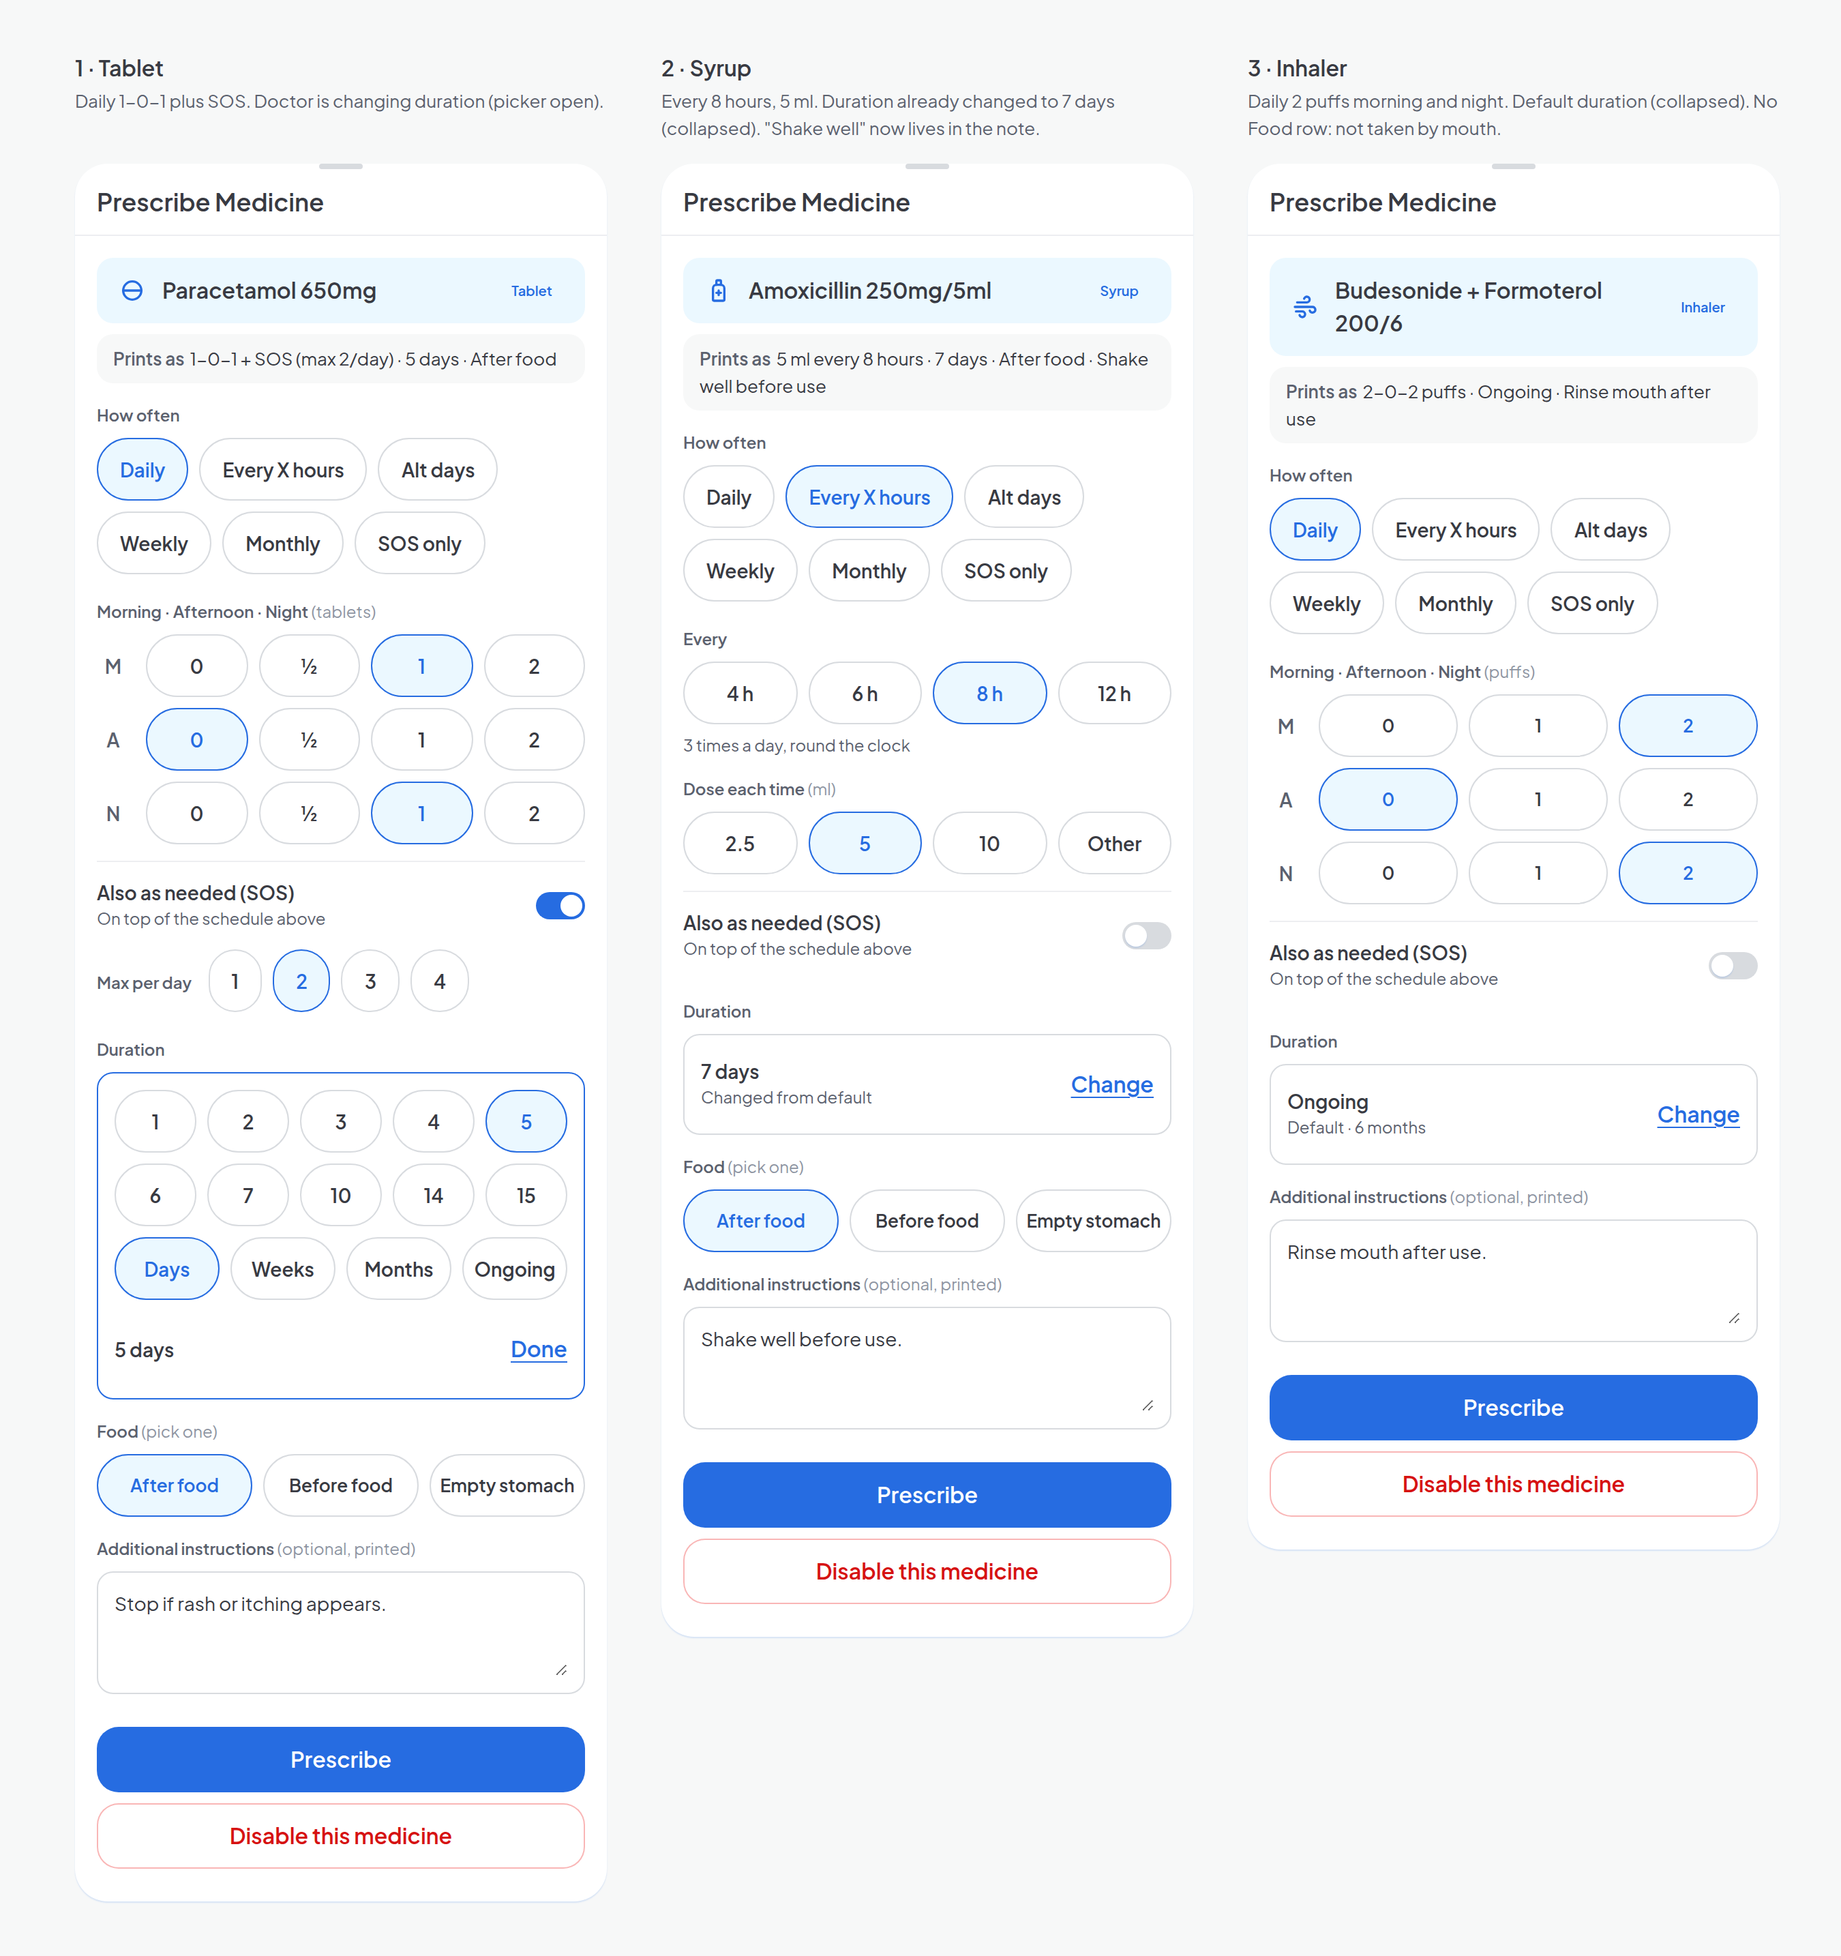
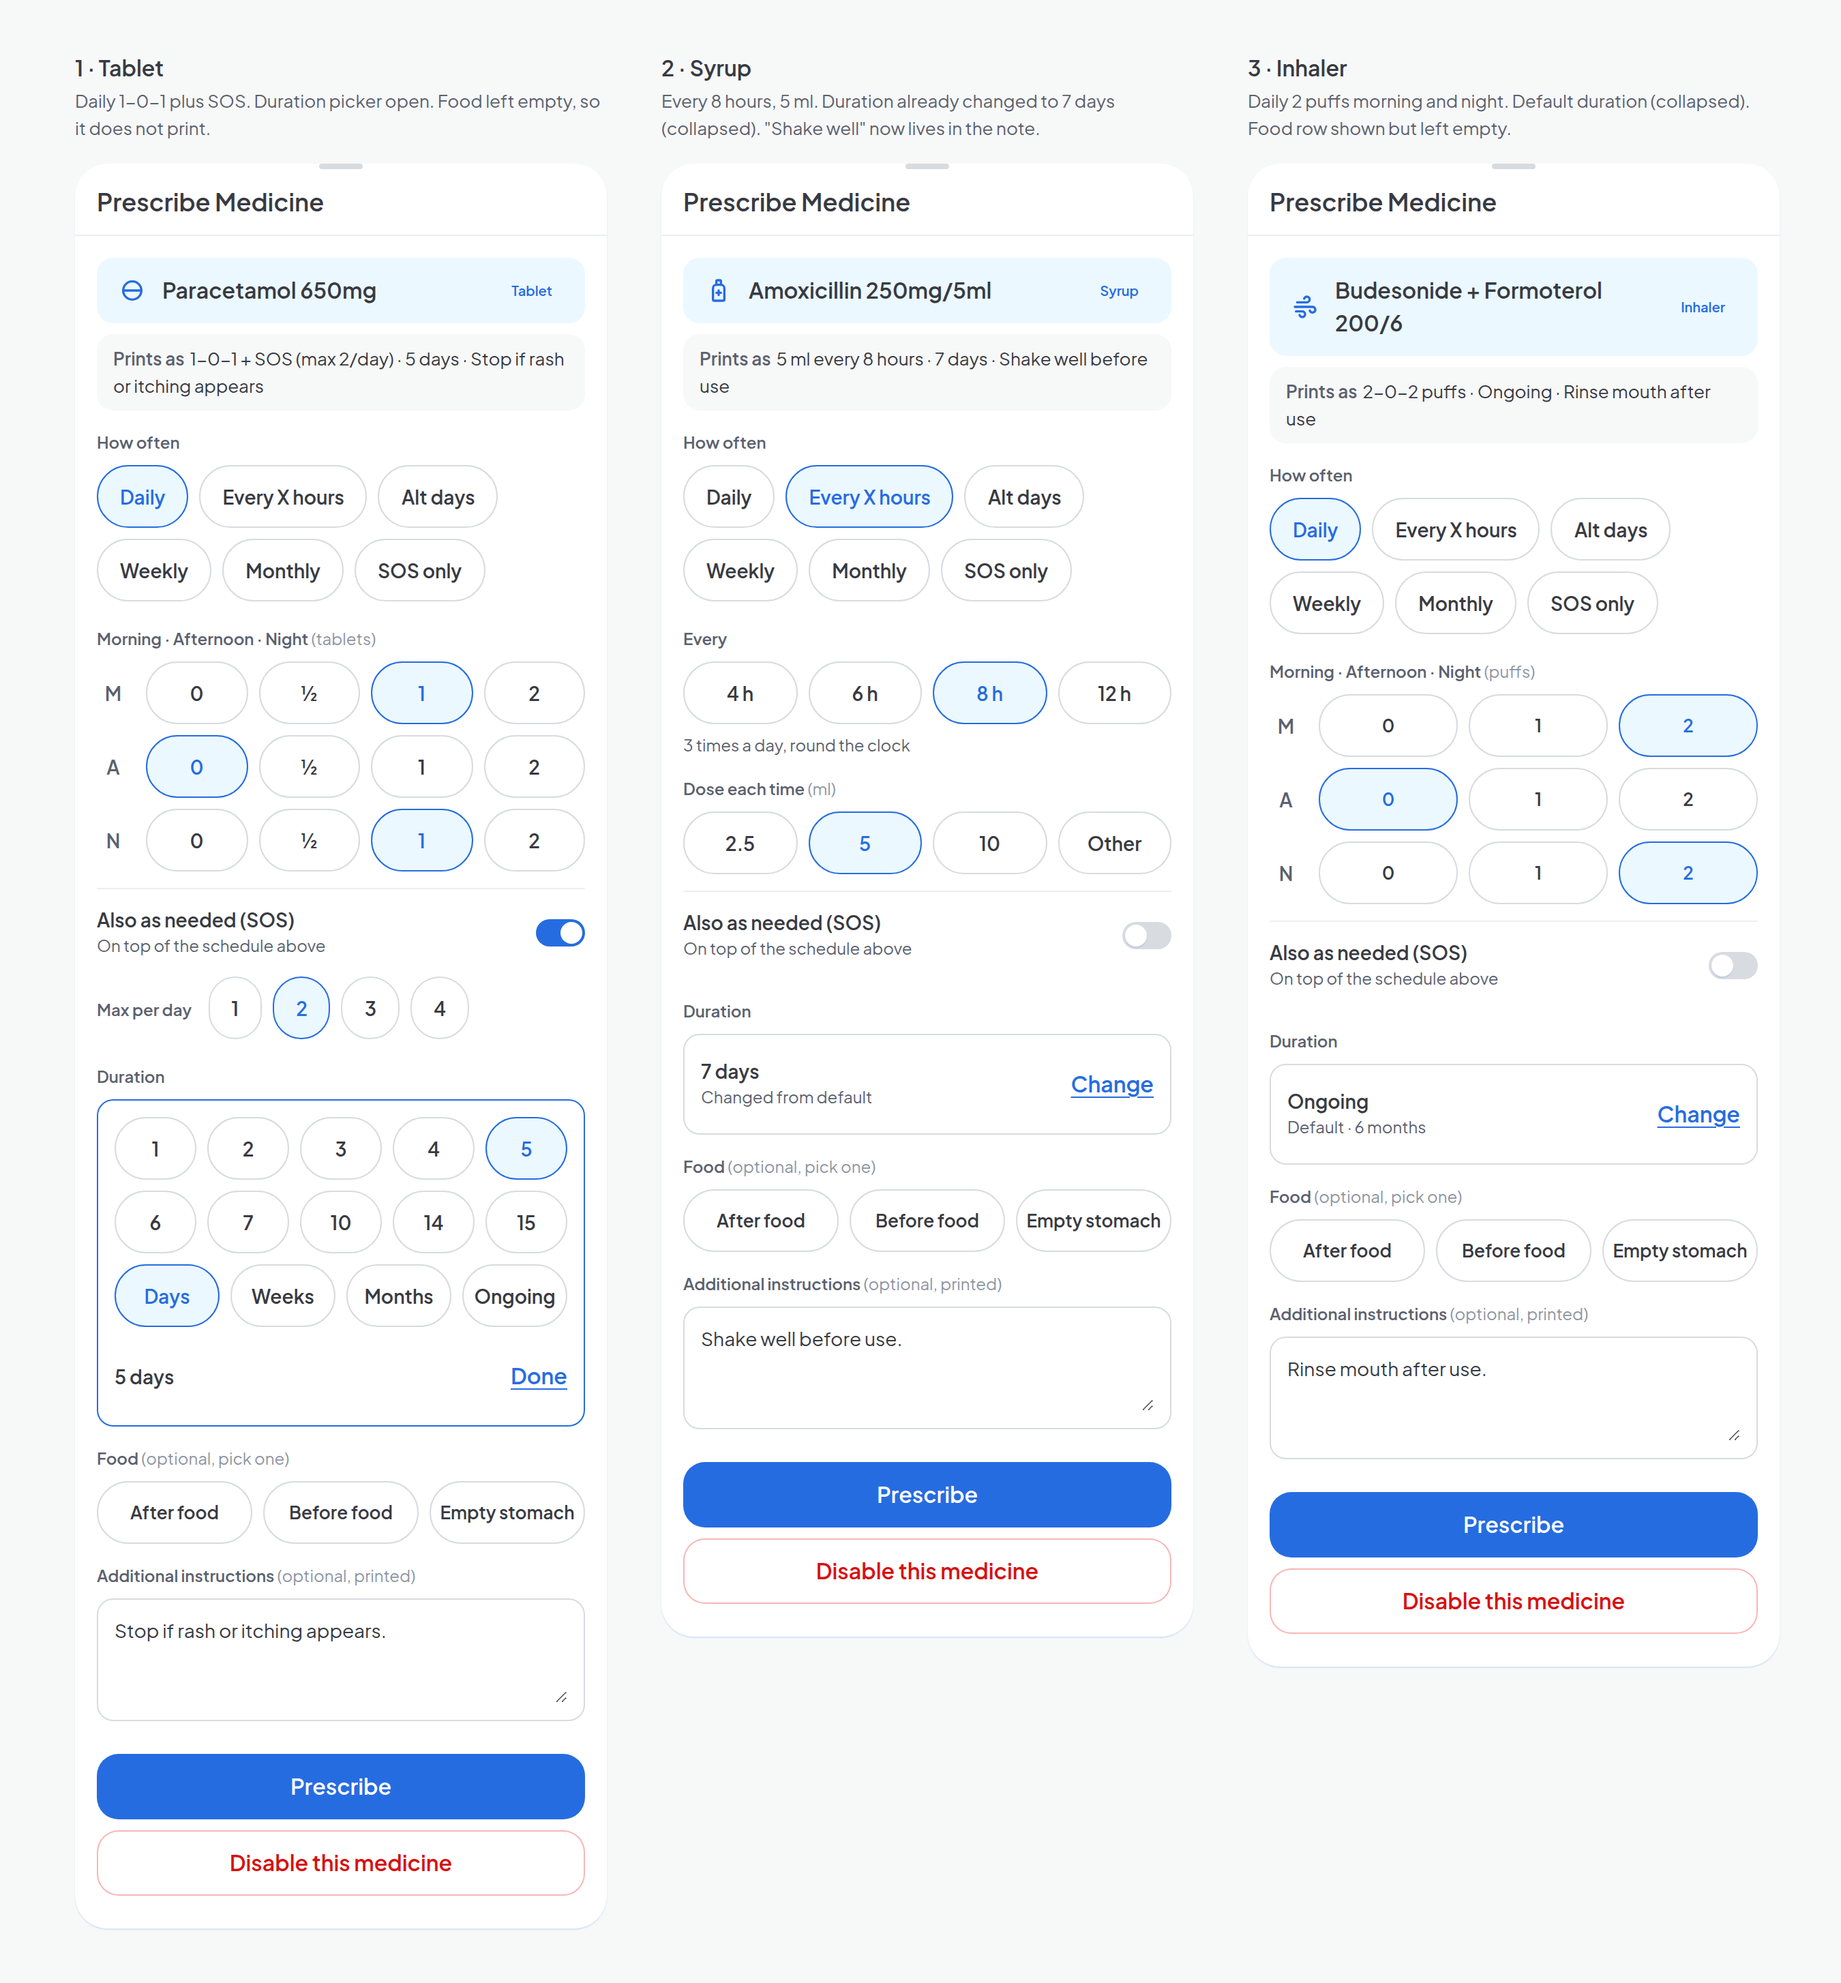
Doctor portal: update Prescribe sheet concept render (Food row on every form, no default)
Claude-Session: https://claude.ai/code/session_01Tk59sZHjAjkgKAboQJ5BRC

diff --git a/projects/truemeds-doctor-portal-prototype/docs/context/session_handoff.md b/projects/truemeds-doctor-portal-prototype/docs/context/session_handoff.md
@@ -8,8 +8,8 @@
 ---
 
 > **2026-10-07 — Prescription changes, part 2: Prescribe sheet redesign — AGREED WITH APURVA, NOT BUILT YET.**
-> Concept render: `docs/concepts/2026-10-07-prescribe-sheet.png` (tablet, syrup, inhaler; note it still shows "After food"
-> preselected — the agreed rule is no food default). Full detail view stays: every section open with backend defaults,
+> Concept render: `docs/concepts/2026-10-07-prescribe-sheet.png` (tablet, syrup, inhaler; Food row
+> shown on all three with nothing selected, matching the agreed no-default rule). Full detail view stays: every section open with backend defaults,
 > so the doctor scrolls past everything before Prescribe. No collapsed summary. Order, top to bottom:
 > 1. Header: medicine name + form tag, then a "Prints as" line showing exactly what will print (kept).
 > 2. How often: Daily · Every X hours · Alt days · Weekly · Monthly · SOS only.
